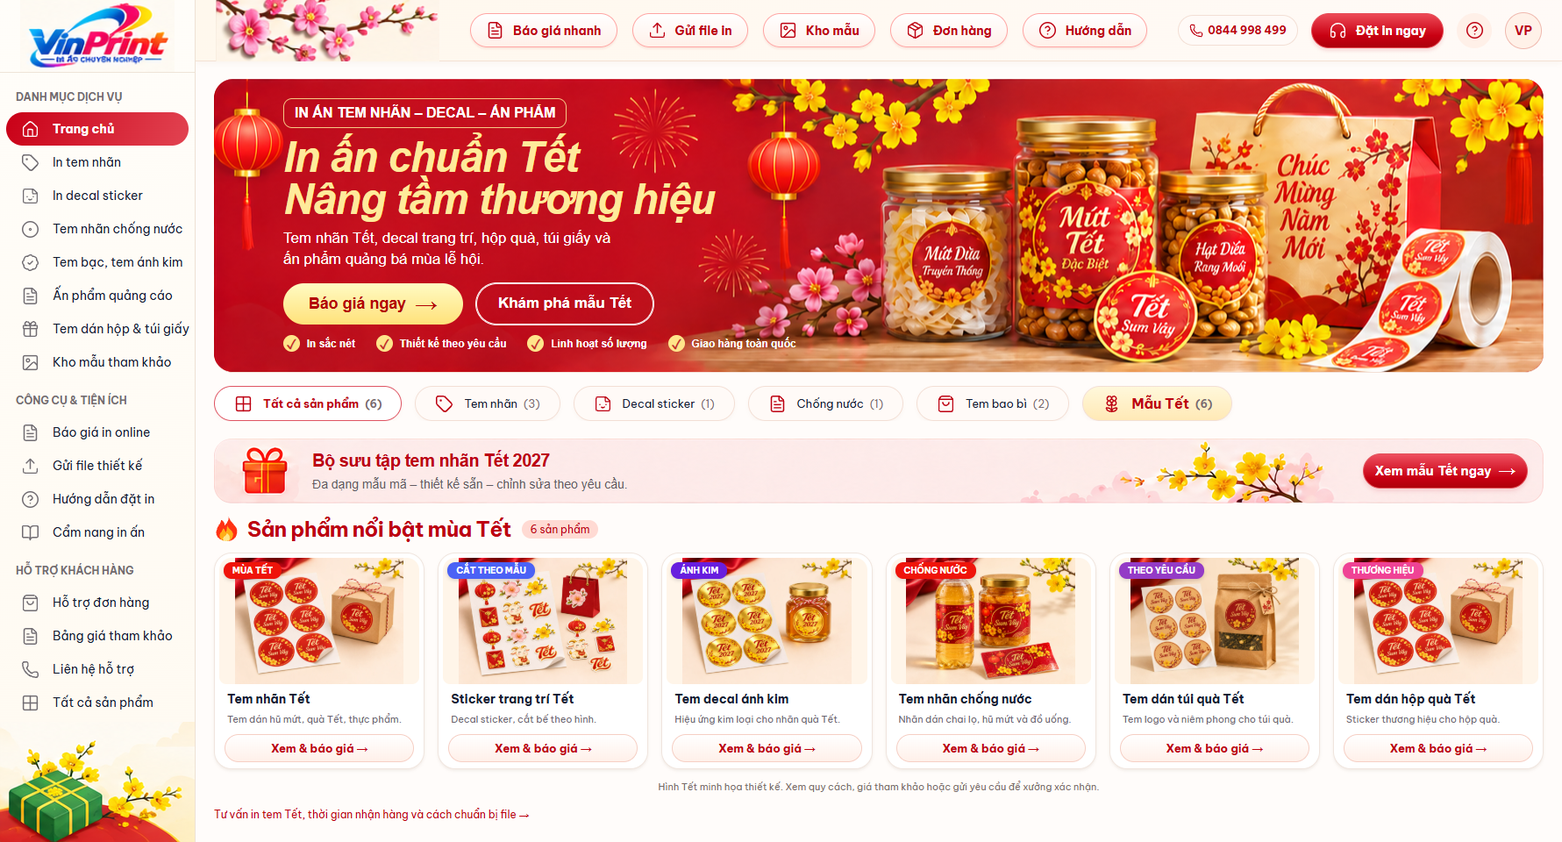
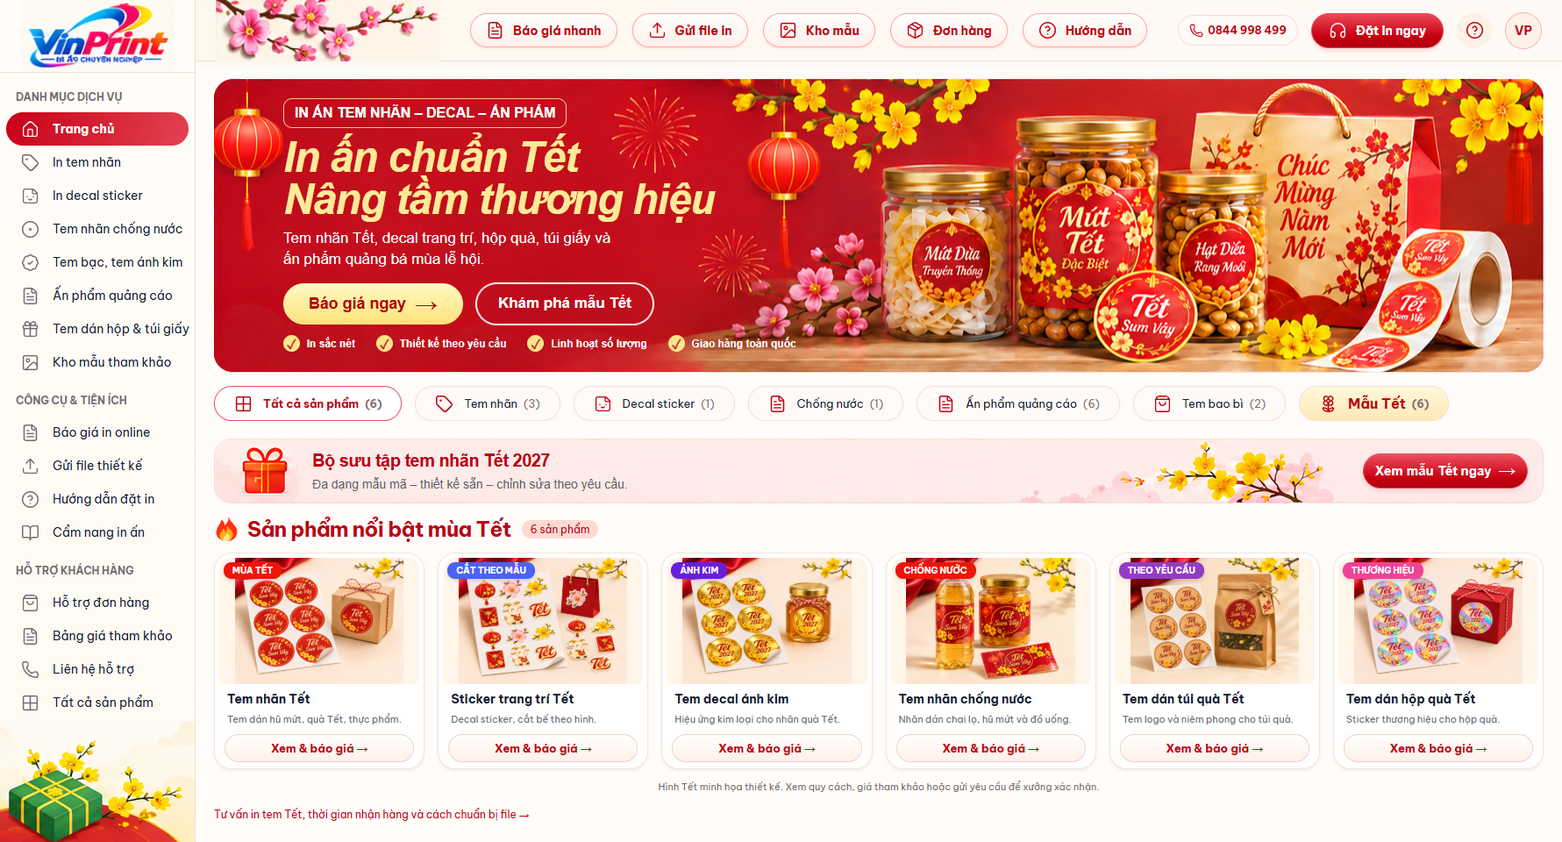
fix: open advertising category and remove repeated homepage artwork

Changed region(s): [[0.5867, 0.4375, 0.9264, 0.5], [0.8647, 0.6875, 0.9882, 0.8125]]

diff --git a/app/components/storefront/Storefront.tsx b/app/components/storefront/Storefront.tsx
@@ -10,7 +10,7 @@ import { CUSTOMER_AVATARS } from "../home/customer-avatars";
 import { SHOPEE_SHOP_URL } from "../../lib/products";
 import { GOOGLE_BUSINESS_PROFILE_EMBED_URL, GOOGLE_BUSINESS_PROFILE_URL } from "../../lib/business-info";
 import { trackEvent } from "../../lib/analytics";
-import { buildQuoteMessage, catalogProducts, featuredItems, featuredProduct, filterFeatured, pricingPosterAssets, safePublicHref, storefrontFilters, type QuoteValues, type StorefrontFilter } from "../../lib/storefront";
+import { advertisingItems, featuredImage, selectHomepageMedia, buildQuoteMessage, catalogProducts, featuredItems, featuredProduct, filterFeatured, pricingPosterAssets, safePublicHref, storefrontFilters, type QuoteValues, type StorefrontFilter } from "../../lib/storefront";
 import "./storefront.css";
 import { productThemeImage } from "../../lib/product-theme";
 
@@ -39,6 +39,7 @@ export default function Storefront(){
   const dialogRef=useRef<HTMLDialogElement>(null);
   const requestRef=useRef<HTMLTextAreaElement>(null);
   const visible=filterFeatured(filter);
+  const homepageMedia=selectHomepageMedia(hotProducts,gallery);
   const zaloUrl=safePublicHref(contact.zaloUrl);
   const callUrl="tel:"+contact.phone.replace(/[^+\d]/g,"");
   const primaryHref=safePublicHref(tetHome.primaryCta.href,"#nhan-bao-gia");
@@ -88,7 +89,7 @@ export default function Storefront(){
         {navFilter("In decal sticker","sticker","sticker")}
         {navFilter("Tem nhãn chống nước","roll","water")}
         {navFilter("Tem bạc, tem ánh kim","badge","metal")}
-        <button className="vp-nav" onClick={()=>openQuote("Ấn phẩm quảng cáo")}><Icon name="file"/>Ấn phẩm quảng cáo</button>
+        {navFilter("Ấn phẩm quảng cáo","file","print")}
         {navFilter("Tem dán hộp & túi giấy","gift","pack")}
         {navLink("Kho mẫu tham khảo","image","#mau-thuc-te")}
         <p>Công cụ & tiện ích</p>
@@ -141,7 +142,7 @@ export default function Storefront(){
         </section>
 
         <section className="filters" aria-label="Lọc sản phẩm">
-          {storefrontFilters.map(item=><button key={item.id} className={(filter===item.id?"selected ":"")+(item.id==="tet"?"tet":"")} onClick={()=>chooseFilter(item.id)} aria-pressed={filter===item.id}><Icon name={item.icon}/>{item.label}<em>({filterFeatured(item.id).length})</em></button>)}
+          {storefrontFilters.map(item=><button key={item.id} className={(filter===item.id?"selected ":"")+(item.id==="tet"?"tet":"")} onClick={()=>chooseFilter(item.id)} aria-pressed={filter===item.id}><Icon name={item.icon}/>{item.label}<em>({(item.id==="print"?advertisingItems.length:filterFeatured(item.id).length)})</em></button>)}
         </section>
 
         <section className="collection" aria-labelledby="collection-title">
@@ -151,28 +152,29 @@ export default function Storefront(){
         </section>
 
         <section id="san-pham-tet" aria-labelledby="product-title">
-          <div className="section-heading"><h2 id="product-title"><Flame/><span>{filter==="all"||filter==="tet"?"Sản phẩm nổi bật mùa Tết":(filter==="metal"?"Tem bạc và ánh kim":storefrontFilters.find(f=>f.id===filter)?.label)}</span></h2><span id="count" aria-live="polite">{visible.length} sản phẩm</span>{filter!=="all"&&<button id="reset" onClick={()=>chooseFilter("all")}>Xem tất cả →</button>}</div>
+          <div className="section-heading"><h2 id="product-title">{filter==="print"?<Icon name="file"/>:<Flame/>}<span>{filter==="all"||filter==="tet"?"Sản phẩm nổi bật mùa Tết":(filter==="metal"?"Tem bạc và ánh kim":storefrontFilters.find(f=>f.id===filter)?.label)}</span></h2><span id="count" aria-live="polite">{filter==="print"?advertisingItems.length:visible.length} sản phẩm</span>{filter!=="all"&&<button id="reset" onClick={()=>chooseFilter("all")}>Xem tất cả →</button>}</div>
+          {filter==="print"&&<div className="vp-advertising" aria-label="Danh mục ấn phẩm quảng cáo"><div className="vp-advertising-intro"><Image unoptimized src={productThemeImage("to-roi")} alt="Mẫu thiết kế tờ rơi và ấn phẩm quảng cáo Tết" width={400} height={300}/><div><h3>Ấn phẩm cho cửa hàng & sự kiện</h3><p>Chọn loại ấn phẩm để chuẩn bị yêu cầu in. Xưởng xác nhận chất liệu, kích thước, số lượng và thời gian trước khi báo giá.</p></div></div><div className="vp-advertising-grid">{advertisingItems.map(item=><article key={item.name}><Icon name={item.icon}/><h3>{item.name}</h3><p>{item.description}</p><button onClick={()=>openQuote(item.name)} aria-label={"Yêu cầu báo giá "+item.name}>Yêu cầu báo giá →</button></article>)}</div></div>}
           <div className="product-grid" id="grid">{visible.map(item=>{
             const product=featuredProduct(item);
             return <article className="product" key={item.id}>
-              <Link prefetch={false} className="art vp-art-link" href={item.href}><Image unoptimized src={item.id==="tui-qua"?productThemeImage("tem-kraft"):product.image} alt={item.name+" — ảnh minh họa thiết kế Tết"} width={400} height={300} className="vp-themed-thumbnail"/><span className="ribbon">{item.badge}</span></Link>
+              <Link prefetch={false} className="art vp-art-link" href={item.href}><Image unoptimized src={featuredImage(item)} alt={item.name+" — ảnh minh họa thiết kế Tết"} width={400} height={300} className="vp-themed-thumbnail"/><span className="ribbon">{item.badge}</span></Link>
               <h3><Link prefetch={false} href={item.href}>{item.name}</Link></h3><p>{item.description}</p>
               <button onClick={()=>openQuote(item.name)} aria-label={"Xem và báo giá "+item.name}>Xem & báo giá →</button>
               <span className="vp-product-source">Chất liệu: {product.name}</span>
             </article>;
           })}</div>
-          <p className="vp-art-caption">Hình Tết minh họa thiết kế. Xem quy cách, giá tham khảo hoặc gửi yêu cầu để xưởng xác nhận.</p>
-          <Link prefetch={false} className="vp-inline-link" href="/nganh/tem-nhan-tet">Tư vấn in tem Tết, thời gian nhận hàng và cách chuẩn bị file →</Link>
+          {filter!=="print"&&<p className="vp-art-caption">Hình Tết minh họa thiết kế. Xem quy cách, giá tham khảo hoặc gửi yêu cầu để xưởng xác nhận.</p>}
+          {filter!=="print"&&<Link prefetch={false} className="vp-inline-link" href="/nganh/tem-nhan-tet">Tư vấn in tem Tết, thời gian nhận hàng và cách chuẩn bị file →</Link>}
         </section>
 
-        <section className="vp-info-section" id="san-pham-noi-bat" aria-labelledby="hot-title">
+        {homepageMedia.hot.length>0&&<section className="vp-info-section" id="san-pham-noi-bat" aria-labelledby="hot-title">
 <div className="vp-section-top"><h2 id="hot-title">Các sản phẩm <span>đang hot</span></h2><Link prefetch={false} href="/san-pham">Xem tất cả sản phẩm của shop →</Link></div>
-<div className="vp-hot-grid">{hotProducts.map(item=><article key={item.id}>{item.kind==="video"?<video poster={item.poster? safePublicHref(item.poster):undefined} src={safePublicHref(item.src)} controls playsInline preload="none" aria-label={item.title}/>:<Image unoptimized src={safePublicHref(item.src)} alt={item.title} width={400} height={300} loading="lazy"/>}<small>{item.category}</small><h3><Link prefetch={false} href={safePublicHref(item.href,"/san-pham")}>{item.title}</Link></h3></article>)}</div>
-</section>
+<div className="vp-hot-grid">{homepageMedia.hot.map(item=><article key={item.id}>{item.kind==="video"?<video poster={item.poster? safePublicHref(item.poster):undefined} src={safePublicHref(item.src)} controls playsInline preload="none" aria-label={item.title}/>:<Image unoptimized src={safePublicHref(item.src)} alt={item.title} width={400} height={300} loading="lazy"/>}<small>{item.category}</small><h3><Link prefetch={false} href={safePublicHref(item.href,"/san-pham")}>{item.title}</Link></h3></article>)}</div>
+</section>}
 <section className="vp-info-section" id="danh-muc-san-pham" aria-labelledby="catalog-title">
           <div className="vp-section-top"><div><h2 id="catalog-title">Các loại tem nhãn VinPrint</h2><p>Chọn theo chất liệu và bề mặt sử dụng. Giá tham khảo lấy từ danh mục sản phẩm.</p></div><Link prefetch={false} href="/san-pham">Xem danh mục đầy đủ →</Link></div>
-          <div className="vp-catalog-grid">{catalogProducts.map(product=><article className="vp-catalog-item" key={product.slug}>
-            <Link prefetch={false} href={"/san-pham/"+product.slug}><Image unoptimized src={product.image} alt={product.name} width="400" height="300" loading="lazy"/></Link>
+          <div className="vp-catalog-grid vp-catalog-compact">{catalogProducts.map(product=><article className="vp-catalog-item" key={product.slug}>
+            <Icon name={product.slug==="tem-uv-dtf"?"sticker":"tag"}/>
             <h3><Link prefetch={false} href={"/san-pham/"+product.slug}>{product.name}</Link></h3><p>{product.description}</p><strong>{product.priceLabel}</strong>
             <div><Link prefetch={false} href={"/san-pham/"+product.slug}>Xem chi tiết</Link><button onClick={()=>openQuote(product.name)}>Nhận báo giá</button></div>
           </article>)}</div>
@@ -196,8 +198,8 @@ export default function Storefront(){
 
         <section className="vp-info-section" id="mau-thuc-te" aria-labelledby="gallery-title">
           <div className="vp-section-top"><div><h2 id="gallery-title">Kho mẫu tem tham khảo</h2><p>Tham khảo hình thức, cách bố trí logo và ứng dụng trên bao bì.</p></div><Link prefetch={false} href="/mau-tem-moi">Mẫu tem mới →</Link></div>
-          <div className="vp-gallery-grid">{gallery.slice(0,12).map(item=><Link prefetch={false} key={item.id} href={safePublicHref(item.href,"/san-pham")}><Image unoptimized src={safePublicHref(item.src,"/images/hero-products.webp")} alt={item.title} width="320" height="240" loading="lazy"/><span>{item.title}</span></Link>)}</div>
-          {gallery.length===0&&<p>Mẫu đang được cập nhật. Bạn có thể gửi ý tưởng qua Zalo để được tư vấn.</p>}
+          <div className="vp-gallery-grid">{homepageMedia.gallery.map(item=><Link prefetch={false} key={item.id} href={safePublicHref(item.href,"/san-pham")}><Image unoptimized src={safePublicHref(item.src,"/images/hero-products.webp")} alt={item.title} width="320" height="240" loading="lazy"/><span>{item.title}</span></Link>)}</div>
+          {homepageMedia.gallery.length===0&&<div className="vp-sample-directory"><Link prefetch={false} href="/nganh/my-pham"><Icon name="tag"/>Mẫu tem mỹ phẩm →</Link><Link prefetch={false} href="/nganh/thuc-pham"><Icon name="box"/>Mẫu tem thực phẩm →</Link><Link prefetch={false} href="/nganh/do-uong"><Icon name="sticker"/>Mẫu tem đồ uống →</Link></div>}
         </section>
 
         <section className="vp-info-section" id="danh-gia" aria-labelledby="reviews-title">
@@ -231,7 +233,7 @@ export default function Storefront(){
       <button id="close" aria-label="Đóng hộp thoại" onClick={closeDialog}><X size={21}/></button>
       {modal?.kind==="quote"&&<div id="dialog-content"><h2>Nhận báo giá in</h2>{!requestText?<><p>Điền quy cách để chuẩn bị yêu cầu gửi VinPrint qua Zalo. Chưa phát sinh đơn hàng hoặc thanh toán.</p>
         <form id="quote-form" onSubmit={prepareQuote}>
-          <label htmlFor="quote-product">Sản phẩm cần in</label><select id="quote-product" name="product" defaultValue={selectedProduct}>{Array.from(new Set([selectedProduct,...featuredItems.map(i=>i.name),...catalogProducts.map(p=>p.name)])).map(name=><option key={name}>{name}</option>)}</select>
+          <label htmlFor="quote-product">Sản phẩm cần in</label><select id="quote-product" name="product" defaultValue={selectedProduct}>{Array.from(new Set([selectedProduct,...featuredItems.map(i=>i.name),...advertisingItems.map(i=>i.name),...catalogProducts.map(p=>p.name)])).map(name=><option key={name}>{name}</option>)}</select>
           <div className="vp-form-row"><div><label htmlFor="material">Chất liệu</label><select id="material" name="material"><option>Nhờ xưởng tư vấn</option><option>Decal giấy</option><option>Decal nhựa chống nước</option><option>Decal trong</option><option>Decal ánh kim</option><option>UV DTF</option></select></div><div><label htmlFor="quantity">Số lượng</label><input id="quantity" name="quantity" type="number" min="1" max="1000000" step="1" defaultValue="500" required/></div></div>
           <label htmlFor="size">Kích thước thành phẩm</label><input id="size" name="size" placeholder="Ví dụ: tem tròn 5 cm hoặc 4 × 6 cm" maxLength={80} required/>
           <div className="vp-form-row"><div><label htmlFor="quote-name">Tên liên hệ (không bắt buộc)</label><input id="quote-name" name="name" autoComplete="name" maxLength={80}/></div><div><label htmlFor="quote-phone">Điện thoại (không bắt buộc)</label><input id="quote-phone" name="phone" type="tel" autoComplete="tel" maxLength={20}/></div></div>

diff --git a/app/lib/storefront.ts b/app/lib/storefront.ts
@@ -1,6 +1,8 @@
 import { productBySlug, products } from "./products";
+import {productThemeImage} from "./product-theme";
+import type {ManagedMediaItem} from "./media-collections";
 
-export type StorefrontFilter = "all" | "label" | "sticker" | "metal" | "water" | "pack" | "tet";
+export type StorefrontFilter = "all" | "label" | "sticker" | "metal" | "water" | "pack" | "tet" | "print";
 export type FeaturedItem = {
   id: string; name: string; description: string; badge: string;
   categories: StorefrontFilter[]; productSlug: string; href: string;
@@ -12,13 +14,14 @@ export const featuredItems: FeaturedItem[] = [
   { id:"anh-kim", name:"Tem decal ánh kim", description:"Hiệu ứng kim loại cho nhãn quà Tết.", badge:"ÁNH KIM", categories:["label","metal","tet"], productSlug:"tem-vang", href:"/san-pham/tem-vang", crop:[772,637,226,147] },
   { id:"chong-nuoc", name:"Tem nhãn chống nước", description:"Nhãn dán chai lọ, hũ mứt và đồ uống.", badge:"CHỐNG NƯỚC", categories:["label","water","tet"], productSlug:"tem-nhua-chong-nuoc", href:"/san-pham/tem-nhua-chong-nuoc", crop:[1021,637,225,147] },
   { id:"tui-qua", name:"Tem dán túi quà Tết", description:"Tem logo và niêm phong cho túi quà.", badge:"THEO YÊU CẦU", categories:["pack","tet"], productSlug:"tem-giay", href:"/nganh/sticker-hop-qua-tet", crop:[1273,637,227,147] },
-  { id:"hop-qua", name:"Tem dán hộp quà Tết", description:"Sticker thương hiệu cho hộp quà.", badge:"THƯƠNG HIỆU", categories:["pack","tet"], productSlug:"tem-giay", href:"/nganh/sticker-hop-qua-tet", crop:[1529,637,229,147] },
+  { id:"hop-qua", name:"Tem dán hộp quà Tết", description:"Sticker thương hiệu cho hộp quà.", badge:"THƯƠNG HIỆU", categories:["pack","tet"], productSlug:"tem-7-mau", href:"/nganh/sticker-hop-qua-tet", crop:[1529,637,229,147] },
 ];
 export const storefrontFilters: Array<{id:StorefrontFilter;label:string;icon:string}> = [
   {id:"all",label:"Tất cả sản phẩm",icon:"grid"},
   {id:"label",label:"Tem nhãn",icon:"tag"},
   {id:"sticker",label:"Decal sticker",icon:"sticker"},
   {id:"water",label:"Chống nước",icon:"file"},
+  {id:"print",label:"Ấn phẩm quảng cáo",icon:"file"},
   {id:"pack",label:"Tem bao bì",icon:"bag"},
   {id:"tet",label:"Mẫu Tết",icon:"flower"},
 ];
@@ -26,6 +29,31 @@ export function filterFeatured(filter: StorefrontFilter) {
   return featuredItems.filter(item=>filter==="all" || item.categories.includes(filter));
 }
 export function featuredProduct(item: FeaturedItem) { return productBySlug[item.productSlug]; }
+export function featuredImage(item:FeaturedItem){
+  if(item.id==="tui-qua")return productThemeImage("tem-kraft");
+  if(item.id==="hop-qua")return productThemeImage("tem-7-mau");
+  return featuredProduct(item).image;
+}
+export const advertisingItems=[
+ {name:"In tờ rơi",description:"Giới thiệu sản phẩm, chương trình ưu đãi và khai trương.",icon:"file"},
+ {name:"In brochure",description:"Trình bày dịch vụ hoặc bộ sưu tập sản phẩm theo trang gấp.",icon:"book"},
+ {name:"In poster",description:"Thông điệp quảng cáo và hình ảnh trưng bày tại điểm bán.",icon:"image"},
+ {name:"In menu",description:"Giới thiệu món ăn, đồ uống và bảng dịch vụ.",icon:"book"},
+ {name:"In standee",description:"Ấn phẩm giới thiệu tại sự kiện, cửa hàng và hội chợ.",icon:"image"},
+ {name:"In phiếu bảo hành",description:"Thông tin bảo hành và hướng dẫn dành cho khách hàng.",icon:"badge"},
+];
+// The homepage is a curated preview. Preserve the complete editable collections.
+// Reserve featured/advertising artwork and share a single source set between sections.
+export function selectHomepageMedia(hot:ManagedMediaItem[],gallery:ManagedMediaItem[]){
+  const key=(src:string)=>src.split(/[?#]/,1)[0];
+  const used=new Set([...featuredItems.map(featuredImage),productThemeImage("to-roi")].map(key));
+  function take(items:ManagedMediaItem[],limit:number){
+    const selected:ManagedMediaItem[]=[];
+    for(const item of items){const source=key(item.poster||item.src);if(!source||used.has(source))continue;used.add(source);selected.push(item);if(selected.length===limit)break;}
+    return selected;
+  }
+  return {hot:take(hot,3),gallery:take(gallery,4)};
+}
 export const catalogProducts = products;
 export function safePublicHref(value:string, fallback="/lien-he") {
   return /^(?:\/(?!\/)|#|https:\/\/|tel:)/i.test(value) ? value : fallback;

diff --git a/app/components/storefront/storefront.css b/app/components/storefront/storefront.css
@@ -343,3 +343,25 @@
 .vinprint-storefront .hero h1{font-family:Arial,Helvetica,sans-serif}
 
 .vinprint-storefront .art .vp-themed-thumbnail{width:100%;height:100%;object-fit:contain;background:#fff5e9;display:block}
+.vinprint-storefront .vp-catalog-compact{grid-template-columns:repeat(2,minmax(0,1fr));gap:0 28px}
+.vinprint-storefront .vp-catalog-compact .vp-catalog-item{display:grid;grid-template-columns:32px minmax(0,1fr) auto;column-gap:12px;padding:18px 0;border:0;border-bottom:1px solid #f0e2db;border-radius:0;background:transparent}
+.vinprint-storefront .vp-catalog-compact .vp-catalog-item>i{grid-row:1/4;color:#b90019;padding-top:2px}
+.vinprint-storefront .vp-catalog-compact .vp-catalog-item h3{margin:0 0 5px}
+.vinprint-storefront .vp-catalog-compact .vp-catalog-item p{grid-column:2;margin:0;font-size:12px}
+.vinprint-storefront .vp-catalog-compact .vp-catalog-item strong{grid-column:2;margin-top:8px}
+.vinprint-storefront .vp-catalog-compact .vp-catalog-item>div{grid-column:3;grid-row:1/4;display:flex;flex-direction:column;justify-content:center;align-items:flex-end;margin:0;gap:12px}
+.vinprint-storefront .vp-hot-grid{grid-template-columns:repeat(3,minmax(0,1fr))}
+.vinprint-storefront .vp-advertising{margin:18px 0 10px;border:1px solid #f0dfd6;border-radius:18px;overflow:hidden;background:#fffdf9}
+.vinprint-storefront .vp-advertising-intro{display:flex;align-items:center;gap:28px;background:#fff3e8;padding:22px}
+.vinprint-storefront .vp-advertising-intro img{width:240px;height:auto;aspect-ratio:4/3;object-fit:contain;border-radius:12px;flex-shrink:0}
+.vinprint-storefront .vp-advertising-intro h3{font-size:23px;line-height:1.4;margin:0 0 12px;color:#aa0016}
+.vinprint-storefront .vp-advertising p{font-size:13px;line-height:1.8;color:#6c6163;margin:0;max-width:65ch}
+.vinprint-storefront .vp-advertising-grid{display:grid;grid-template-columns:repeat(3,minmax(0,1fr));gap:0 28px;padding:4px 24px 20px}
+.vinprint-storefront .vp-advertising-grid article{padding:24px 0 8px;border-top:1px solid #f0dfd6;margin-top:16px}
+.vinprint-storefront .vp-advertising-grid article>i{color:#ba0019;margin-bottom:10px}
+.vinprint-storefront .vp-advertising-grid h3{font-size:17px;margin:0 0 9px}
+.vinprint-storefront .vp-advertising-grid button{margin-top:14px;font-size:12px}
+.vinprint-storefront .vp-sample-directory{display:flex;flex-wrap:wrap;gap:14px 30px;padding:12px 0}
+.vinprint-storefront .vp-sample-directory a{display:flex;align-items:center;gap:10px;color:#9f1322;font-size:13px;min-height:44px}
+@media(max-width:1000px){.vinprint-storefront .vp-advertising-grid{grid-template-columns:repeat(2,minmax(0,1fr))}.vinprint-storefront .vp-catalog-compact{grid-template-columns:1fr}}
+@media(max-width:600px){.vinprint-storefront .vp-advertising-intro{display:block;padding:18px}.vinprint-storefront .vp-advertising-intro img{width:100%;max-width:280px;margin:0 auto 18px;display:block}.vinprint-storefront .vp-advertising-intro h3{font-size:20px}.vinprint-storefront .vp-advertising-grid{grid-template-columns:1fr;padding:0 18px 18px}.vinprint-storefront .vp-hot-grid{grid-template-columns:repeat(2,minmax(0,1fr))}.vinprint-storefront .vp-catalog-compact .vp-catalog-item{grid-template-columns:24px minmax(0,1fr)}.vinprint-storefront .vp-catalog-compact .vp-catalog-item>div{grid-column:2;grid-row:auto;flex-direction:row;align-items:center;justify-content:space-between;margin-top:12px}}

diff --git a/tests/storefront-navigation.test.ts b/tests/storefront-navigation.test.ts
@@ -1,0 +1,20 @@
+import assert from "node:assert/strict";
+import {test} from "node:test";
+import {readFileSync} from "node:fs";
+import {advertisingItems,featuredImage,featuredItems,selectHomepageMedia} from "../app/lib/storefront";
+import type {ManagedMediaItem} from "../app/lib/media-collections";
+test("advertising is a category and quoting is an explicit per-item action",()=>{
+ const source=readFileSync("app/components/storefront/Storefront.tsx","utf8");
+ assert.match(source,/navFilter\("Ấn phẩm quảng cáo","file","print"\)/);
+ assert.doesNotMatch(source,/onClick=\{\(\)=>openQuote\("Ấn phẩm quảng cáo"\)\}/);
+ assert.equal(advertisingItems.length,6);assert.ok(advertisingItems.some(i=>i.name==="In tờ rơi"));
+});
+test("featured imagery and secondary sections do not repeat sources",()=>{
+ const featured=featuredItems.map(featuredImage);assert.equal(new Set(featured).size,featured.length);
+ const media=(id:string,src:string):ManagedMediaItem=>({id,src,kind:"image",title:id,category:"Mẫu",href:"/san-pham"});
+ const hot=[media("duplicate-featured",featured[0]),media("hot-1","/unique-a.webp?v=1"),media("hot-2","/unique-a.webp?v=2"),media("hot-3","/unique-b.webp")];
+ const gallery=[media("gallery-1","/unique-a.webp"),media("gallery-2","/unique-c.webp"),media("gallery-3","/unique-c.webp?x=2")];
+ const result=selectHomepageMedia(hot,gallery);
+ assert.deepEqual(result.hot.map(i=>i.id),["hot-1","hot-3"]);assert.deepEqual(result.gallery.map(i=>i.id),["gallery-2"]);
+ assert.equal(hot.length,4);assert.deepEqual(selectHomepageMedia([],[]),{hot:[],gallery:[]});
+});

diff --git a/docs/lessons/2026-11-27-navigation-and-repeated-images.md b/docs/lessons/2026-11-27-navigation-and-repeated-images.md
@@ -1,0 +1,8 @@
+# Điều hướng danh mục không được mở báo giá; chọn ảnh theo toàn trang
+- Issue: https://github.com/cdrvietnam-tech/muse-aistudio/issues/145
+- Triệu chứng: bấm Ấn phẩm quảng cáo bật form báo giá; trang chủ dùng lại cùng ảnh ở nhiều khối.
+- Nguyên nhân gốc: dùng action báo giá thay cho navigation danh mục khi chưa có trang đích; từng khối render toàn bộ dữ liệu riêng nên không kiểm tra nguồn ảnh trùng giữa các khối.
+- Sửa: tab print hiển thị sáu loại ấn phẩm; chỉ CTA cụ thể mở báo giá. featuredImage chọn sáu nguồn riêng; selectHomepageMedia dùng chung tập nguồn đã xuất hiện, bỏ query/hash trước đối chiếu. Danh mục 10 loại tem hiển thị dạng gọn; kho mẫu giữ đích điều hướng và thư viện đầy đủ. Không xóa hay ghi lại media để giải quyết lỗi trình bày.
+- Chặn bằng: tests/storefront-navigation.test.ts và scripts/verify-home-navigation.cjs. Test đỏ trước sửa vì chưa có mô hình danh mục/chọn ảnh; sau sửa cả hai test đạt. Browser kiểm không có dialog khi bấm danh mục, In brochure mở đúng sản phẩm, 9 ảnh/9 nguồn duy nhất, mobile390 và media trước/sau bằng nhau.
+- Bằng chứng: docs/evidence/tet-storefront/home-navigation-results.json, advertising-category.png và home-refined-full.png.
+- Áp dụng chung cho: website có nhiều nhóm ảnh dùng chung bộ sưu tập; phân biệt tab điều hướng với CTA tạo yêu cầu.

diff --git a/docs/lessons/INDEX.md b/docs/lessons/INDEX.md
@@ -1,3 +1,4 @@
 # Bài học VinPrint
+- 2026-11-27 Danh mục không mở báo giá; chống ảnh lặp giữa các khối → 2026-11-27-navigation-and-repeated-images.md
 - 2026-11-27 Thay ảnh theo dữ liệu quản trị và sửa input ẩn tràn mobile → 2026-11-27-product-theme-admin.md
 - 2026-11-27 Tích hợp CSS và schema quản trị cũ → 2026-11-27-storefront-integration.md
